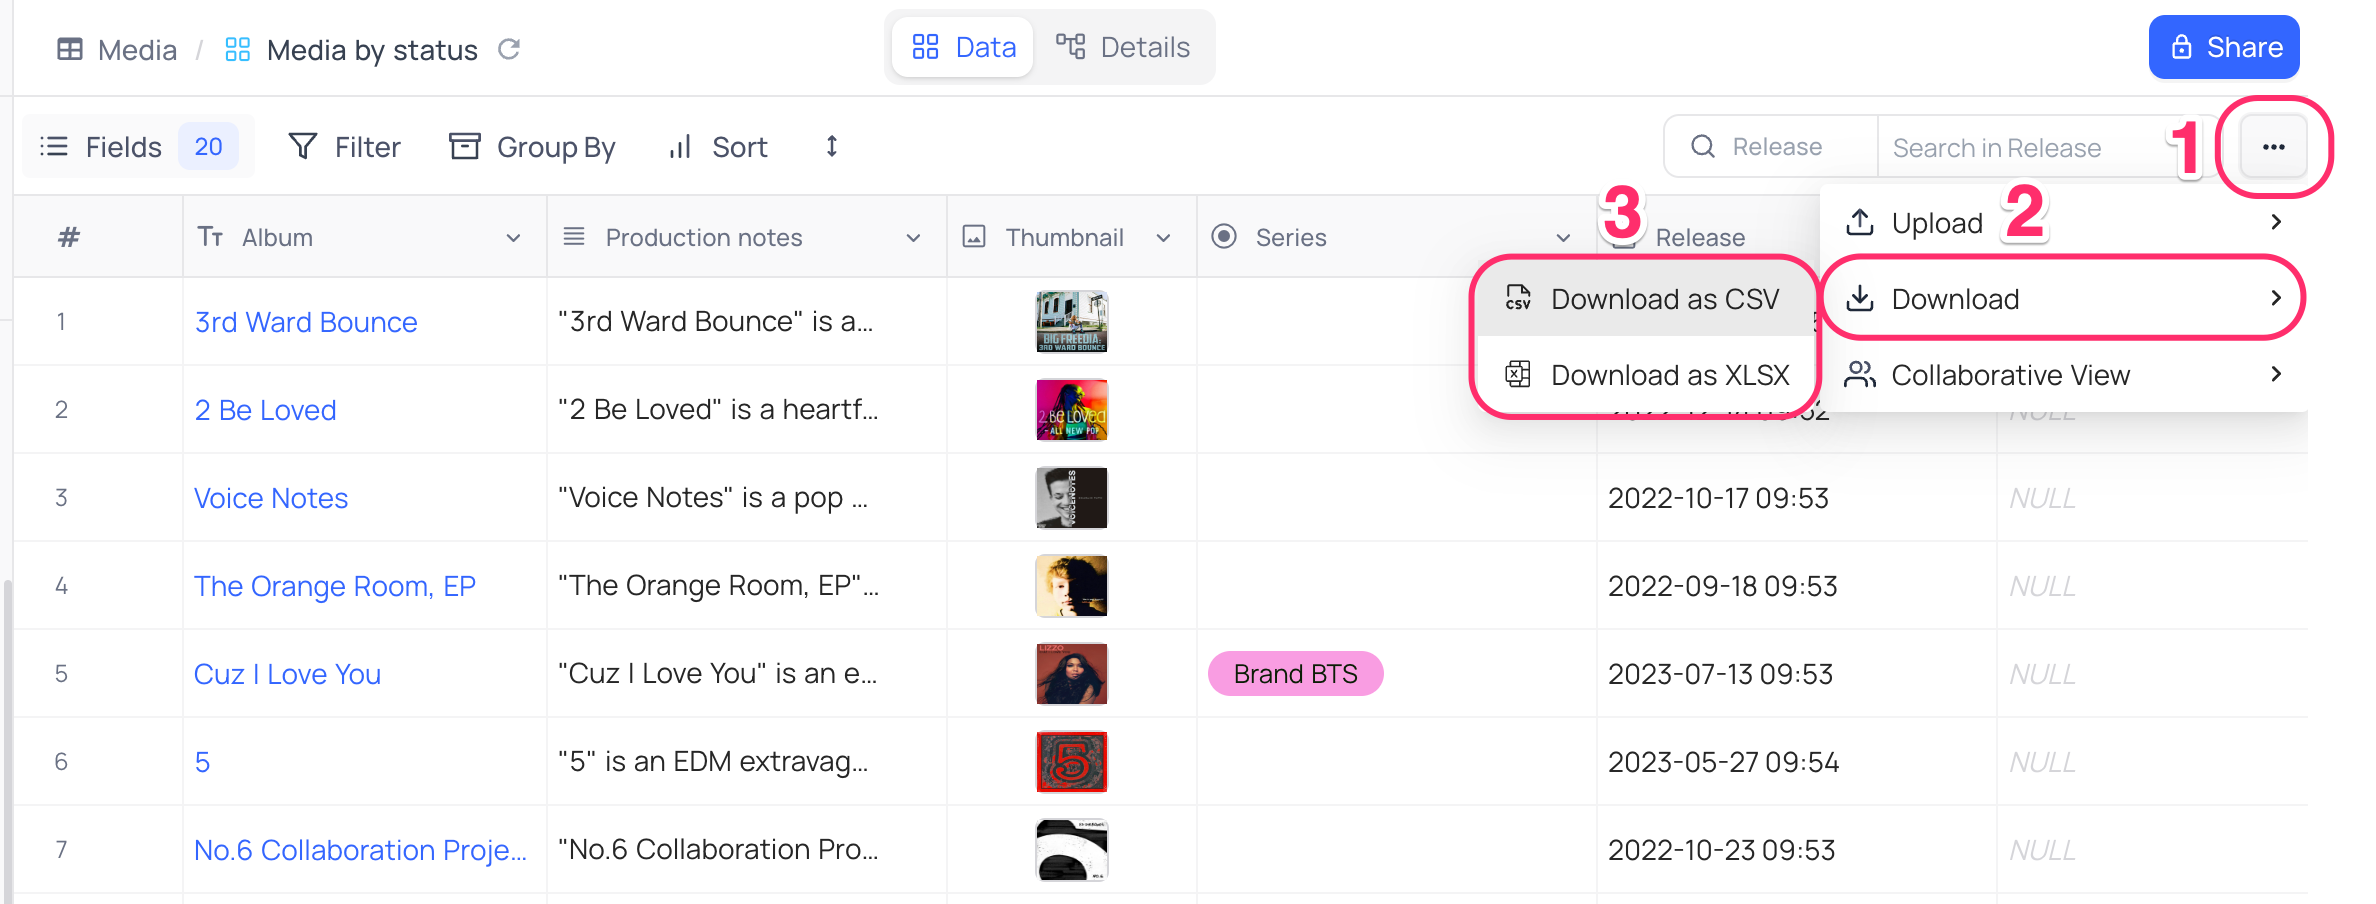
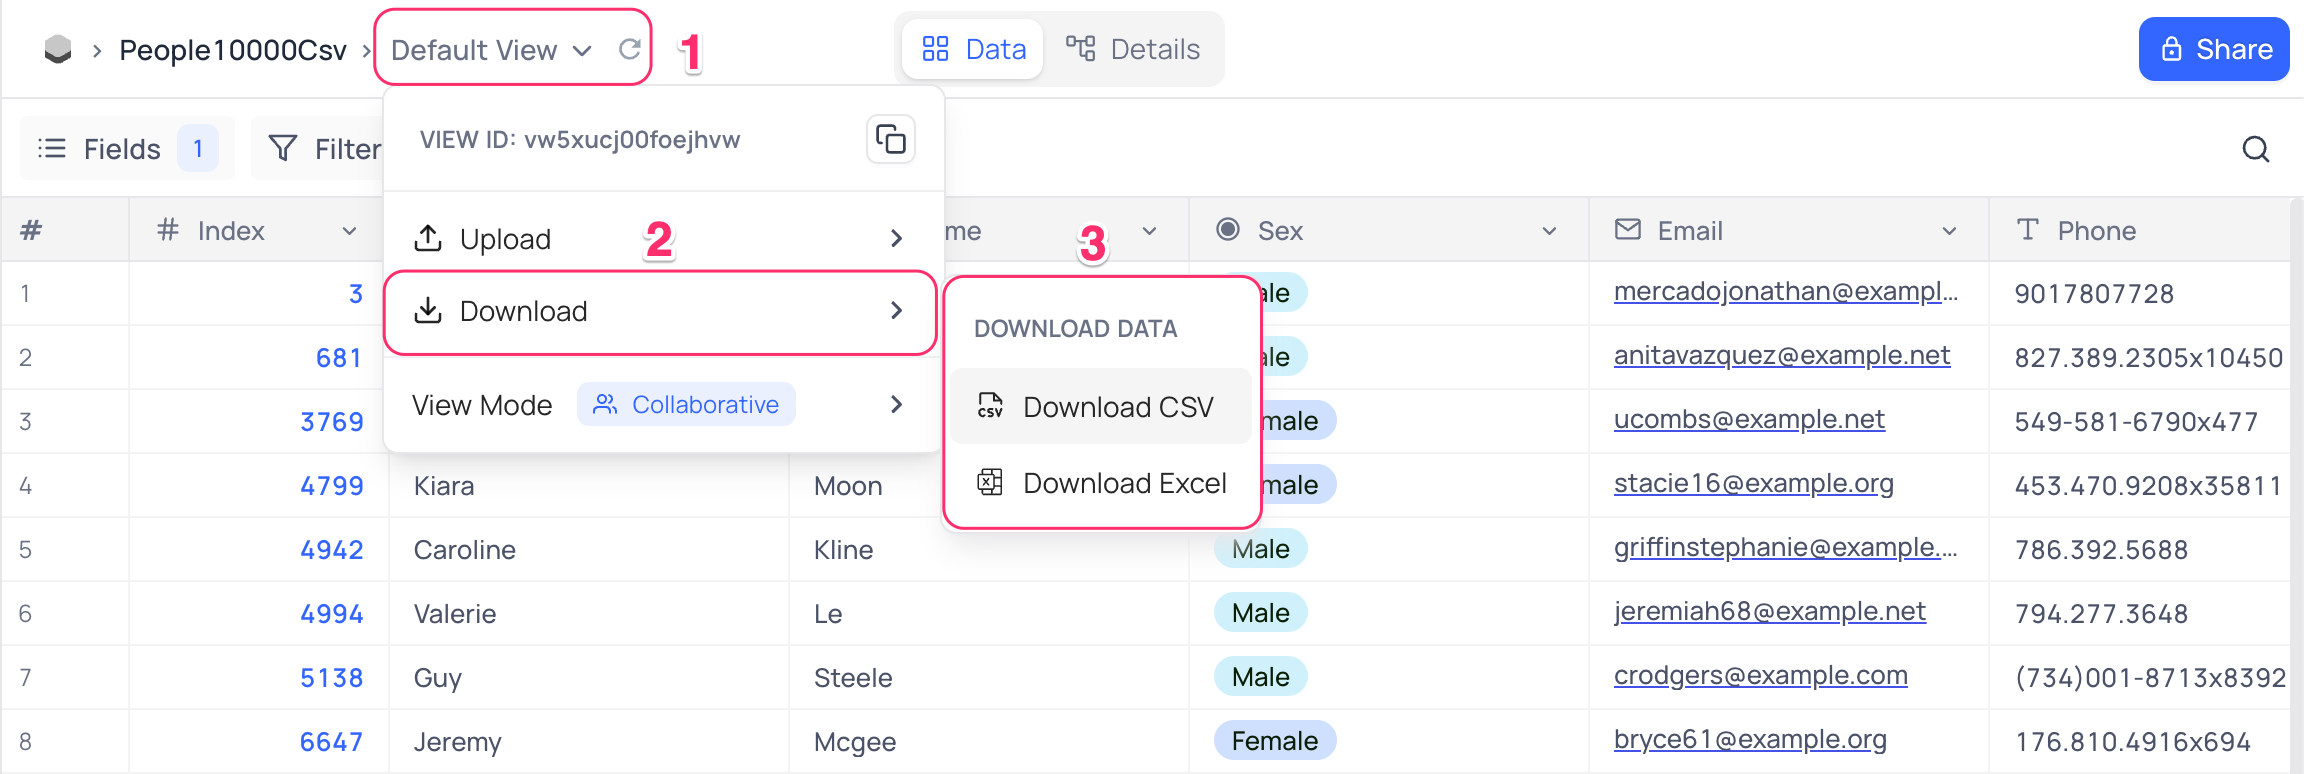
docs: downlaod csv

diff --git a/packages/noco-docs/docs/060.table-operations/080.download.md b/packages/noco-docs/docs/060.table-operations/080.download.md
@@ -10,7 +10,7 @@ NocoDB offers users the ability to export data from the spreadsheet grid in a va
 ### Download Data
 
 To export data from NocoDB, follow these steps:
-1. Click on the `...` button in the toolbar menu.
+1. Click on the view name in the top bar to open view context menu.
 2. Choose the `Download` option.
 3. Select the desired file format from the dropdown menu.
 
